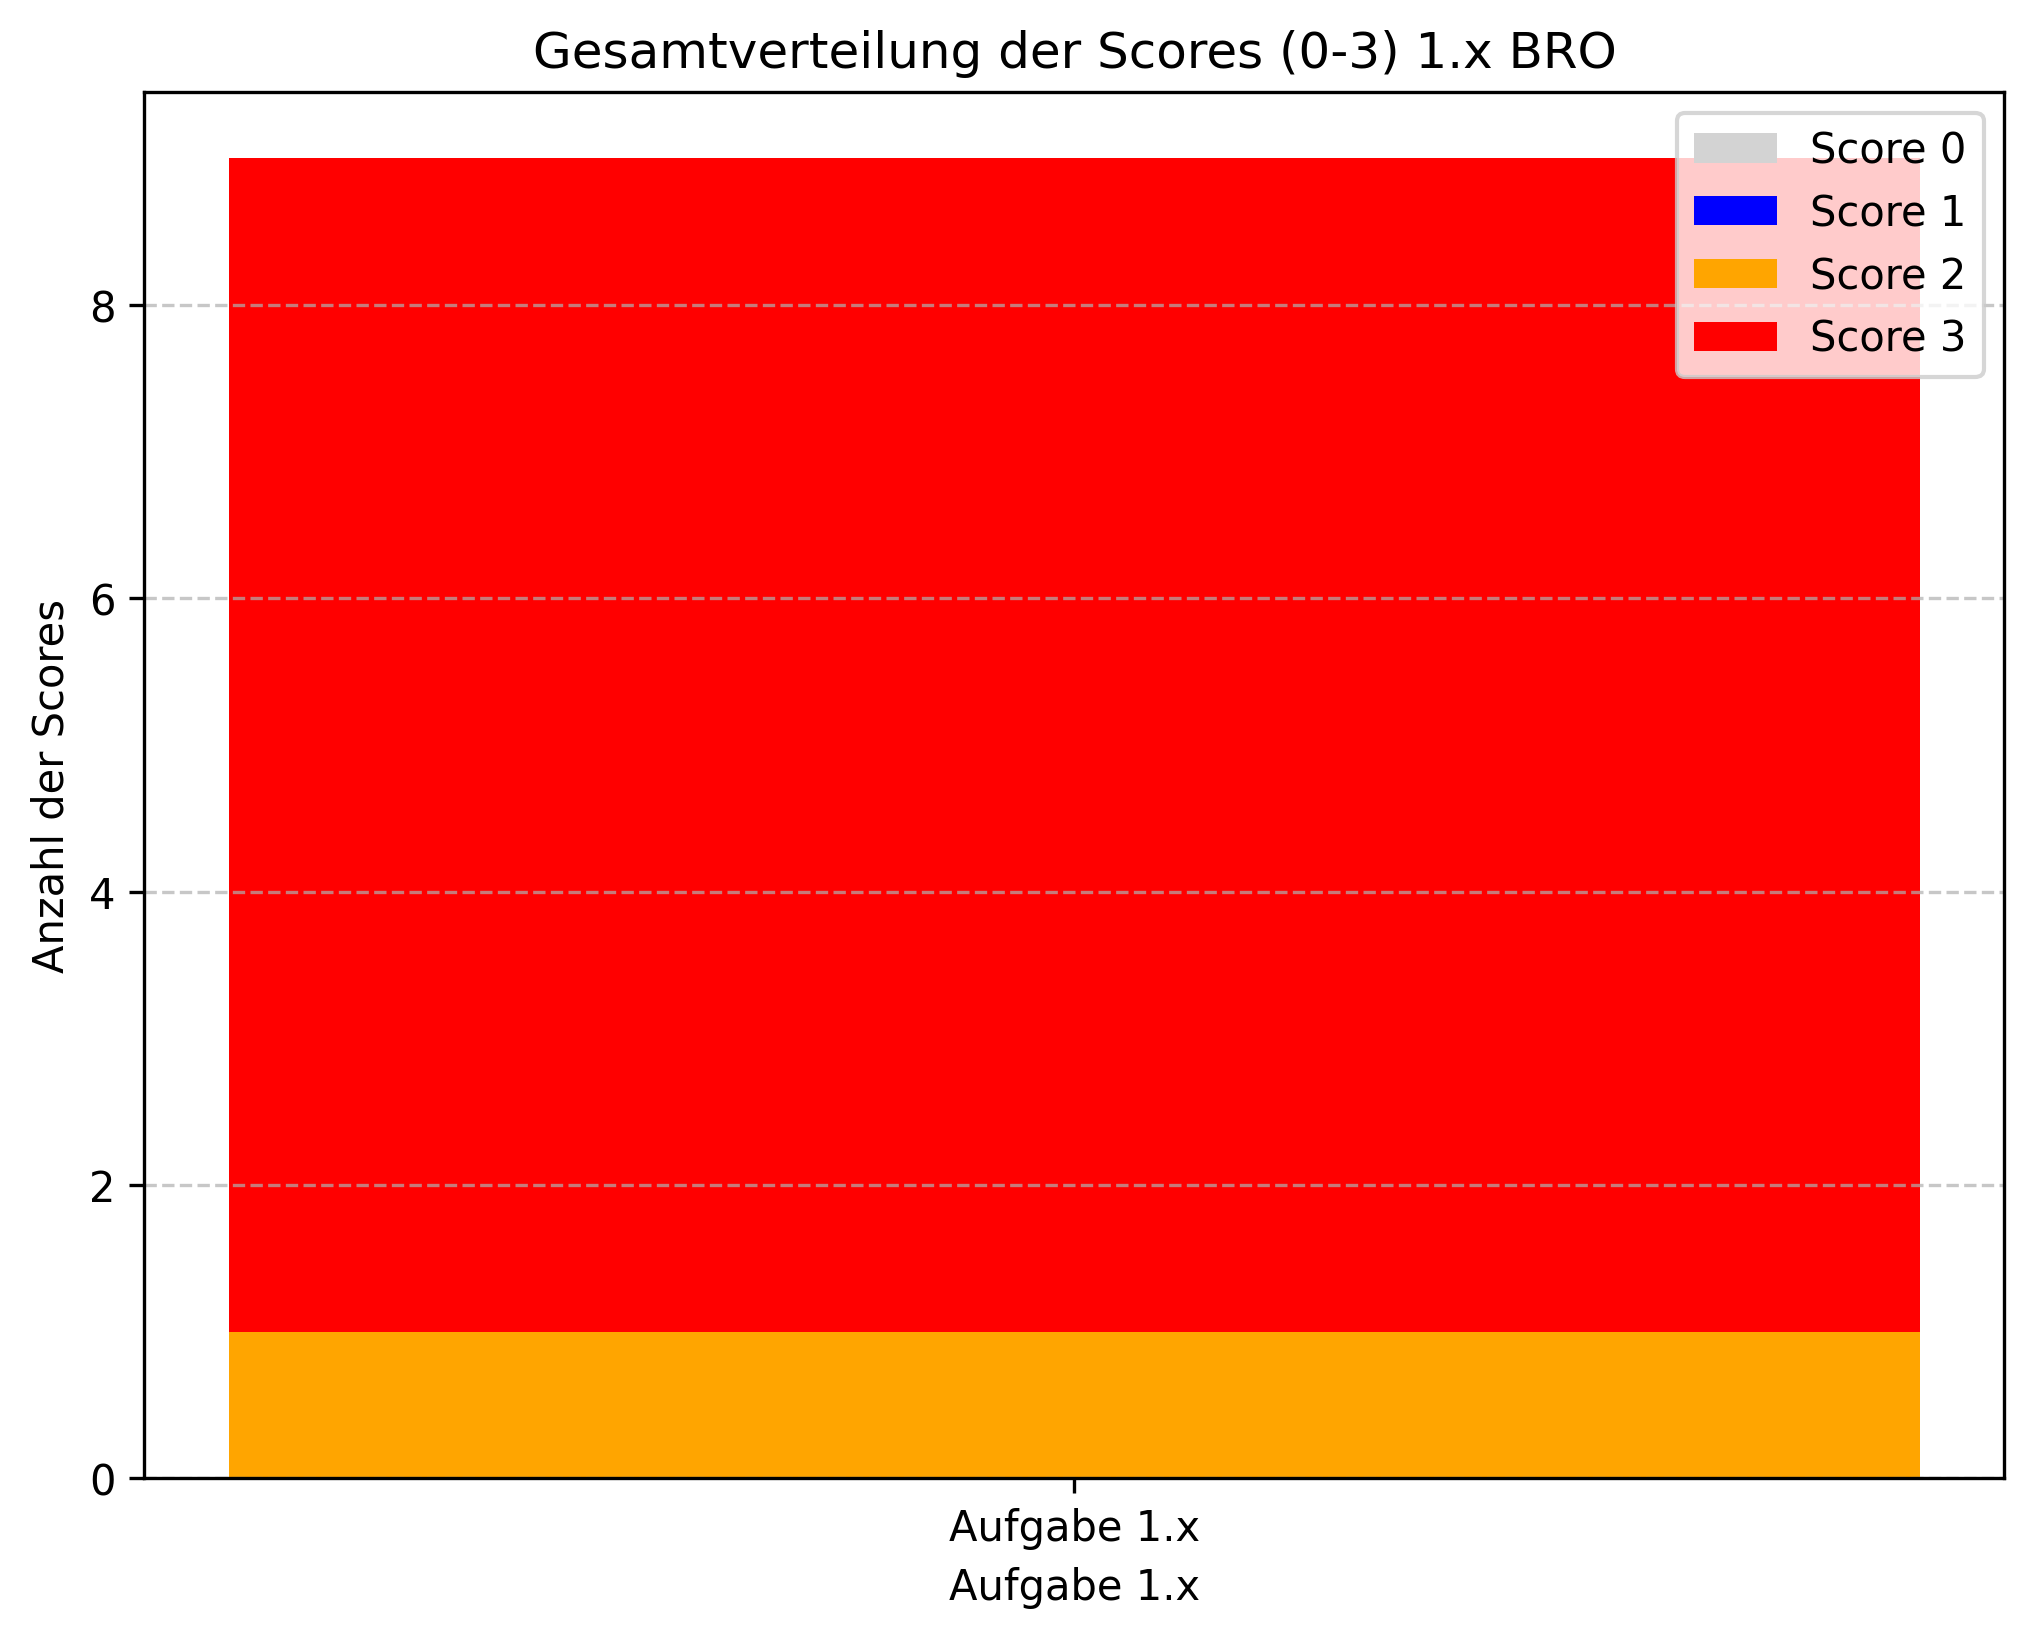
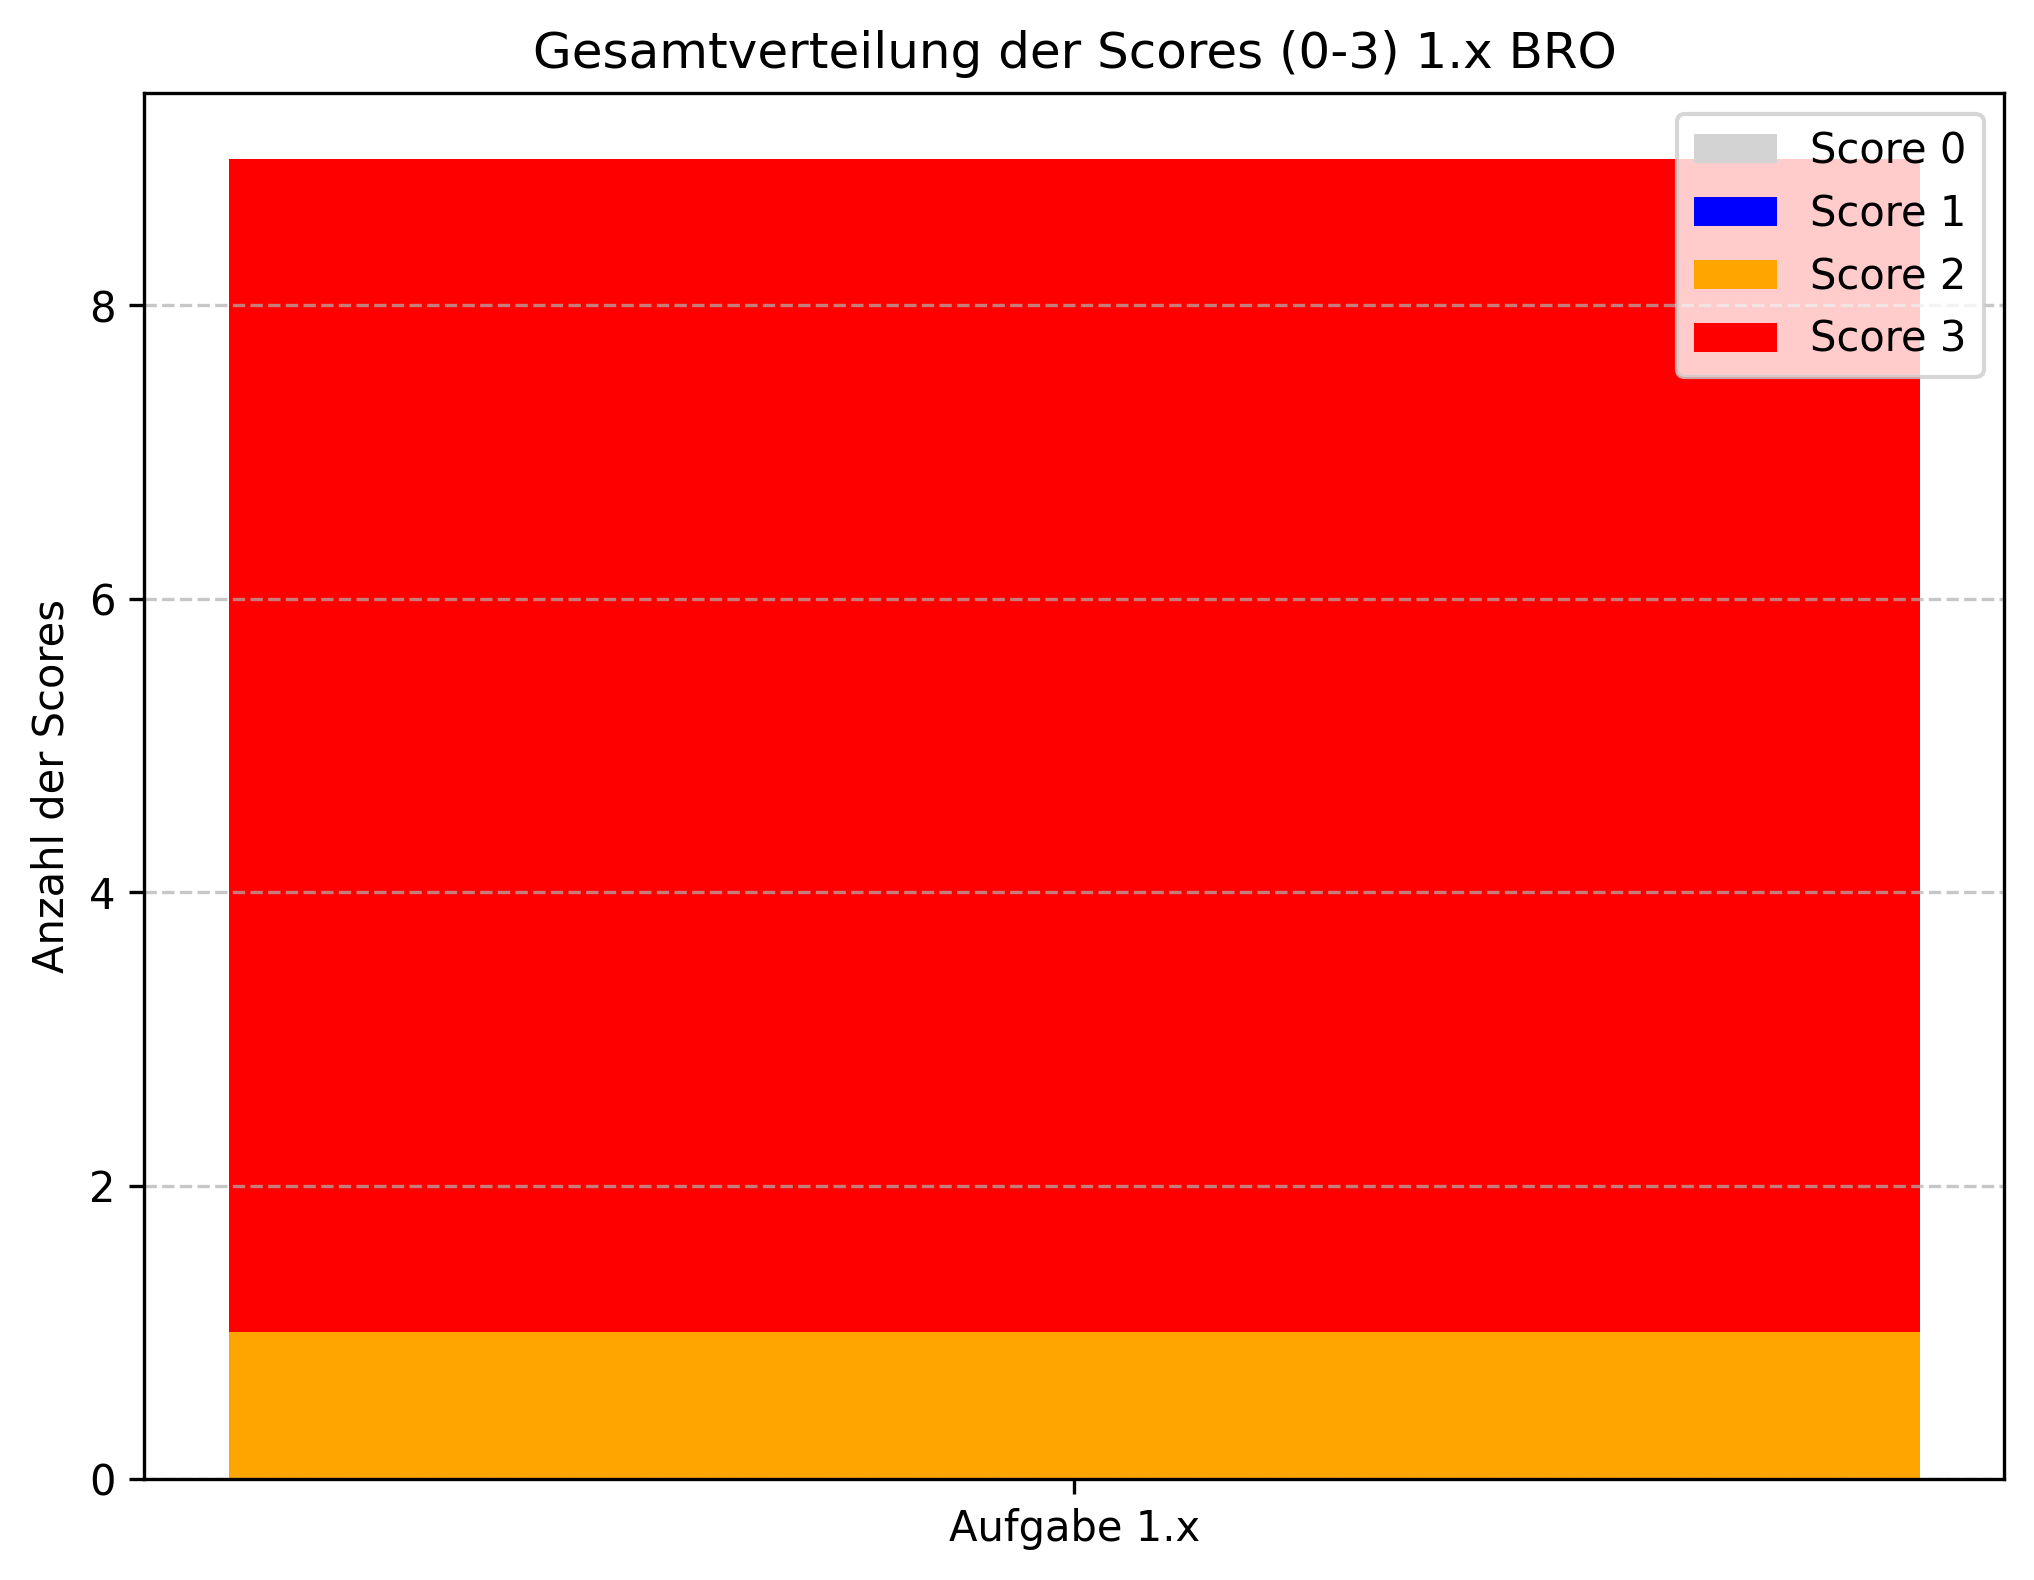
Histplots

diff --git a/Code/Ad-Interim Analyse.py b/Code/Ad-Interim Analyse.py
@@ -2,6 +2,7 @@ import pandas as pd
 import numpy as np
 import matplotlib.pyplot as plt
 import os
+import seaborn as sns
 
 print("Module erfolgreich geladen!")
 
@@ -87,7 +88,7 @@ def save_stacked_bar_for_tasks(task_prefix, title_suffix, filename):
     ax.bar(["Aufgabe " + task_prefix + ".x"], sum(score_counts_3), bottom=sum(score_counts_0) + sum(score_counts_1) + sum(score_counts_2), label="Score 3", color="red", width=bar_width)
 
     plt.ylabel("Anzahl der Scores")
-    plt.xlabel(f"Aufgabe {task_prefix}.x")
+    #plt.xlabel(f"Aufgabe {task_prefix}.x")
     plt.title(f"Gesamtverteilung der Scores (0-3) {task_prefix}.x {title_suffix}")
     plt.legend()
 
@@ -143,7 +144,7 @@ def save_stacked_bar_for_tasks_switched(task_prefix, title_suffix, filename):
 
 
     plt.ylabel("Anzahl der Scores")
-    plt.xlabel(f"Aufgabe {task_prefix}.x")
+    #plt.xlabel(f"Aufgabe {task_prefix}.x")
     plt.title(f"Gesamtverteilung der Scores (0-3) {task_prefix}.x {title_suffix}")
     plt.legend()
 
@@ -160,3 +161,67 @@ def save_stacked_bar_for_tasks_switched(task_prefix, title_suffix, filename):
 for task in ["1", "2", "3", "4", "5", "6"]:
     save_stacked_bar_for_tasks(task, "BRO", f"aufgabe_{task}_original.png")
     save_stacked_bar_for_tasks_switched(task, "Permobil", f"aufgabe_{task}_switched.png")
+
+def save_histplot(column_suffix, title_suffix):
+    # Spaltennamen für M1 und M2
+    column_m1 = f"M1_{column_suffix}"
+    column_m2 = f"M2_{column_suffix}"
+
+    # Prüfen, ob die Spalten existieren
+    if column_m1 not in df_filtered.columns or column_m2 not in df_filtered.columns:
+        print(f"⚠ Spalten {column_m1} oder {column_m2} existieren nicht in den Daten.")
+        return None
+
+    # Daten für die Kombinationen vorbereiten
+    data_a_m1 = df_filtered[df_filtered["Group"] == "A"][column_m1].dropna()
+    data_b_m2 = df_filtered[df_filtered["Group"] == "B"][column_m2].dropna()
+    data_a_m2 = df_filtered[df_filtered["Group"] == "A"][column_m2].dropna()
+    data_b_m1 = df_filtered[df_filtered["Group"] == "B"][column_m1].dropna()
+
+    # Sicherstellen, dass es überhaupt Daten gibt
+    if data_a_m1.empty and data_b_m2.empty and data_a_m2.empty and data_b_m1.empty:
+        print(f"⚠ Keine gültigen Werte für {column_suffix}.")
+        return None
+
+    # Histogramm-Einstellungen
+    bin_edges = np.arange(0, 9) - 0.5  # Ganze Zahlen von 0 bis 7, mittig ausgerichtet
+    bar_width = 0.8  # Abstand zwischen Balken
+
+    # **1⃣ M1 (A) & M2 (B) Histogramm**
+    fig, ax = plt.subplots(figsize=(8, 6))
+    sns.histplot(data_a_m1, bins=bin_edges, color="blue", label="M1 (Group A)", ax=ax, multiple="dodge", shrink=0.8)
+    sns.histplot(data_b_m2, bins=bin_edges, color="red", label="M2 (Group B)", ax=ax, multiple="dodge", shrink=0.8)
+    
+    plt.xlabel(column_suffix)
+    plt.ylabel("Häufigkeit")
+    plt.title(f"Histogramm für {column_suffix} (M1 von A & M2 von B) {title_suffix}")
+    plt.xticks(range(0, 8))
+    max_count = max(np.histogram(data_a_m1, bins=range(0, 9))[0].max(), np.histogram(data_b_m2, bins=range(0, 9))[0].max(), 1)
+    plt.yticks(range(0, max_count + 1))
+    ax.yaxis.grid(True, linestyle="--", alpha=0.7)
+    plt.legend()
+    plt.savefig(os.path.join(output_folder, f"hist_{column_suffix}_M1A_M2B.png"), dpi=300, bbox_inches="tight")
+    plt.close()
+
+    # **2⃣ M2 (A) & M1 (B) Histogramm**
+    fig, ax = plt.subplots(figsize=(8, 6))
+    sns.histplot(data_a_m2, bins=bin_edges, color="green", label="M2 (Group A)", ax=ax, multiple="dodge", shrink=0.8)
+    sns.histplot(data_b_m1, bins=bin_edges, color="purple", label="M1 (Group B)", ax=ax, multiple="dodge", shrink=0.8)
+
+    plt.xlabel(column_suffix)
+    plt.ylabel("Häufigkeit")
+    plt.title(f"Histogramm für {column_suffix} (M2 von A & M1 von B) {title_suffix}")
+    plt.xticks(range(0, 8))
+    max_count = max(np.histogram(data_a_m2, bins=range(0, 9))[0].max(), np.histogram(data_b_m1, bins=range(0, 9))[0].max(), 1)
+    plt.yticks(range(0, max_count + 1))
+    ax.yaxis.grid(True, linestyle="--", alpha=0.7)
+    plt.legend()
+    plt.savefig(os.path.join(output_folder, f"hist_{column_suffix}_M2A_M1B.png"), dpi=300, bbox_inches="tight")
+    plt.close()
+
+    print(f"✅ Histogramme für {column_suffix} gespeichert!")
+
+# **Erstelle Histogramme für SSI_3, SSI_9, SSI_10**
+hist_columns = ["SSI_3", "SSI_9", "SSI_10"]
+for col in hist_columns:
+    save_histplot(col, "Histogramm")
